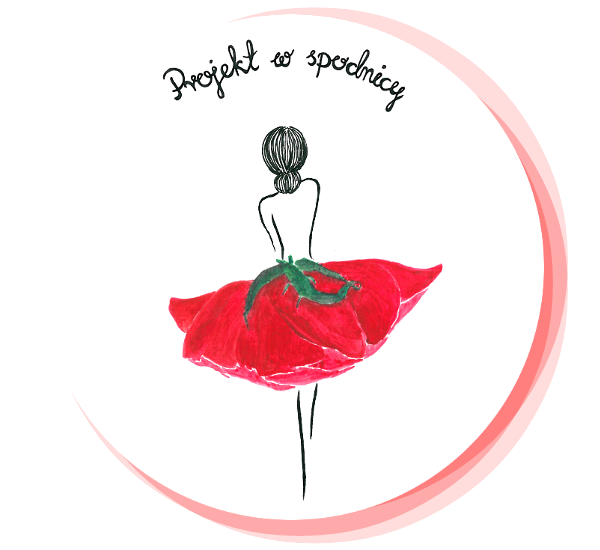
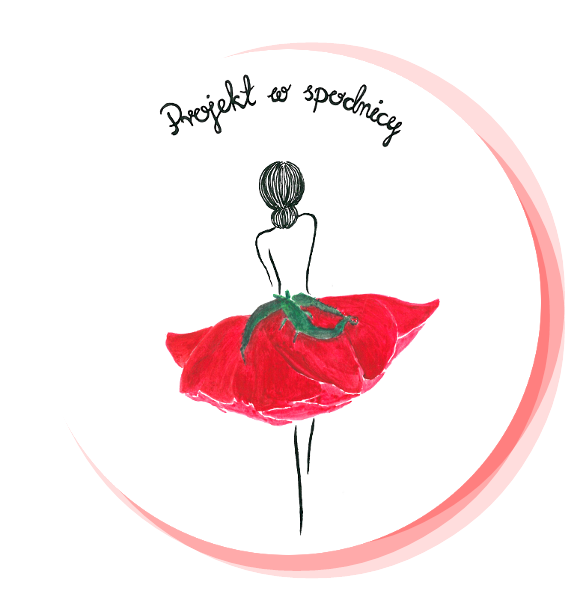
Header responsiveness.

Changed region(s): [[0.125, 0.2164, 1.0, 0.9891], [0.25, 0.0, 0.8438, 0.2473]]

diff --git a/src/app/header/header.component.scss b/src/app/header/header.component.scss
@@ -1,19 +1,42 @@
-.row {
+.container-fluid {
   height: 450px;
   .header-l {
-    background-image: url("../../assets/header/headerL.png");
-    background-repeat: no-repeat;
+    height: 450px;
+    .header-l-img {
+      height: 450px;
+    }
   }
   .header-c {
-    background-image: url("../../assets/header/headerC.png");
-    background-repeat: no-repeat;
-    background-position: center;
-    background-size: 55%;
+    height: 450px;
+    .header-c-img {
+      height: 60vw;
+      margin-top: 40px;
+    }
   }
   .header-r {
-    background-image: url("../../assets/header/headerR.png");
-    background-repeat: no-repeat;
-    background-position-x: right;
-    background-position-y: bottom;
+    height: 450px;
+    .header-r-img {
+      height: 450px;
+    }
+  }
+}
+
+@media only screen and (min-width: 400px) {
+  .container-fluid {
+    .header-c {
+      .header-c-img {
+        margin-top: 0;
+      }
+    }
+  }
+}
+
+@media only screen and (min-width: 768px) {
+  .container-fluid {
+    .header-c {
+      .header-c-img {
+        height: 450px;
+      }
+    }
   }
 }

diff --git a/src/app/header/header.component.html b/src/app/header/header.component.html
@@ -1,15 +1,15 @@
-<!-- <div class="container-fluid px-0">
+<div class="container-fluid px-0">
     <div class="row">
-        <div class="col-3 header-l">
-
+        <div class="col-2 header-l">
+            <img src="../../assets/header/headerL.png" class="header-l-img float-left" alt="">
         </div>
-        <div class="col-6 header-c">
-
+        <div class="col-8 header-c align-items-center">
+            <img src="../../assets/header/headerC.png" class="header-c-img mx-auto d-block align-middle" alt="">
         </div>
-        <div class="col-3 header-r">
-
+        <div class="col-2 header-r">
+            <img src="../../assets/header/headerR.png" class="header-r-img float-right" alt="">
         </div>
     </div>
-</div> -->
+</div>
 
-<img src="{{headerTemp}}" class="img-fluid" alt="Responsive image">
+<!-- <img src="{{headerTemp}}" class="img-fluid" alt="Responsive image"> -->
